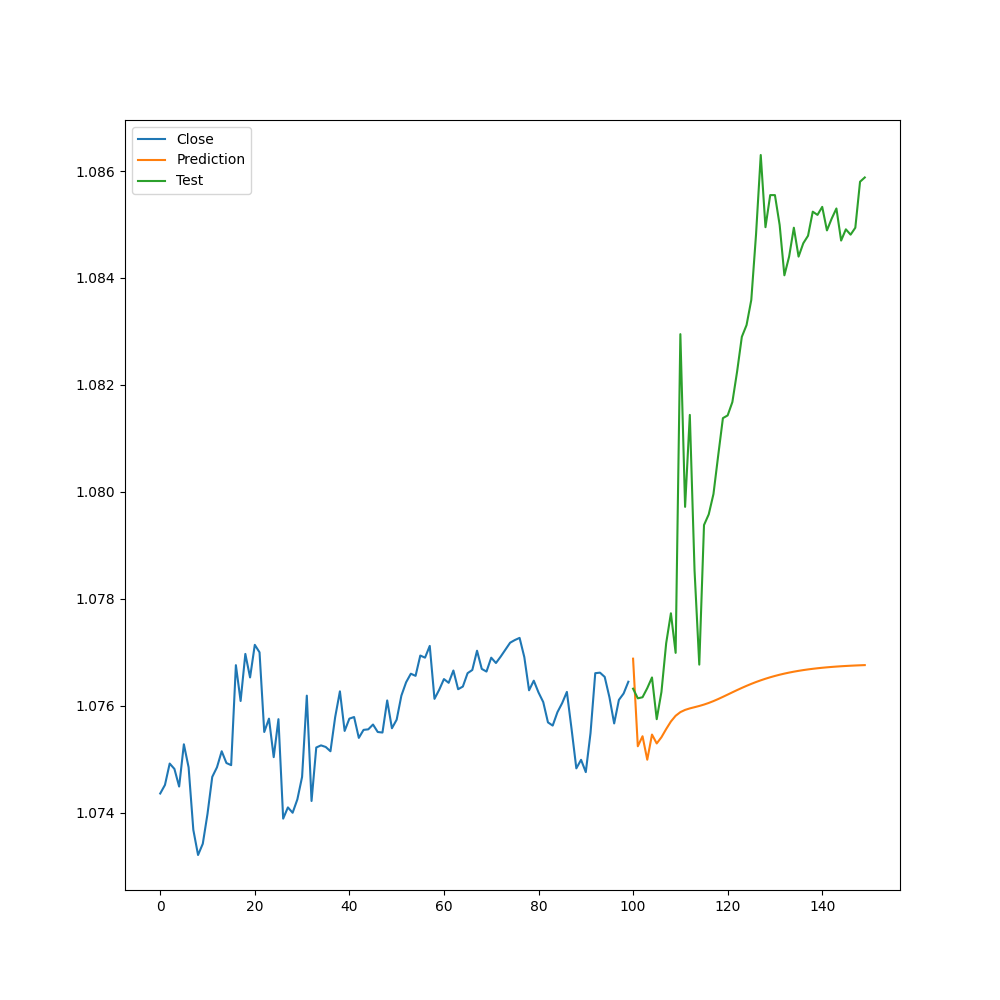
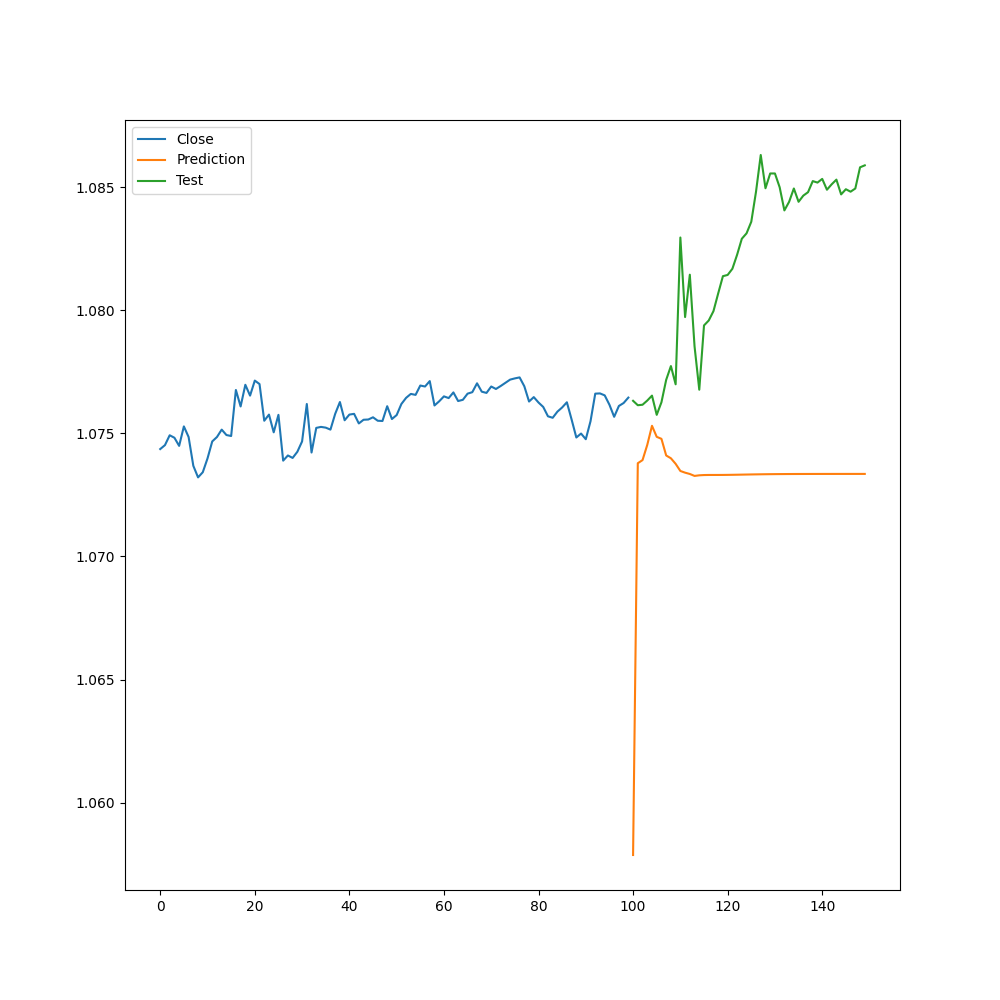
EDIT paths to be relative to main

diff --git a/src/polygonapi.py b/src/polygonapi.py
@@ -60,7 +60,7 @@ def plot_candles(df, pair_name):
                     high=df['High'],
                     low=df['Low'],
                     close=df['Close'])])
-    fig.write_image(f"pairs/chart/{pair_name}_chart.png", width=1920, height=1080, scale=1)
+    fig.write_image(f"../pairs/chart/{pair_name}_chart.png", width=1920, height=1080, scale=1)
 
 def plot_predictions(n_steps_in, n_steps_out, train, test, y_hat, pair_name):
     # Plot the last n_steps in of the close price and the prediction/test (x of prediction starts at the last n_steps_in)
@@ -72,7 +72,7 @@ def plot_predictions(n_steps_in, n_steps_out, train, test, y_hat, pair_name):
     # Plot test
     plt.plot(np.arange(n_steps_in, n_steps_in + n_steps_out), test[:n_steps_out], label='Test')
     plt.legend()
-    plt.savefig(f'predictions/{pair_name}_test.png')
+    plt.savefig(f'../predictions/{pair_name}_test.png')
     plt.cla()
 
 def plot_loss(loss, val_loss, pair_name):
@@ -82,7 +82,7 @@ def plot_loss(loss, val_loss, pair_name):
     plt.xlabel('Epoch')
     plt.ylabel('Error [Close]')
     plt.legend()
-    plt.savefig(f'train/{pair_name}_train.png', format='png')
+    plt.savefig(f'../train/{pair_name}_train.png', format='png')
     plt.cla()
 
 def get_data(pair):
@@ -104,7 +104,7 @@ def get_data(pair):
     data_3 = requests.get(url_3).json()
     if not 'results' in (data_1 and data_2 and data_3):
         print('Data from csv')
-        df = pd.read_csv(f'pairs/{pair}.csv')
+        df = pd.read_csv(f'../pairs/{pair}.csv')
     else:
         print('Data from api')
         df_1 = pd.DataFrame(data_1['results'])
@@ -120,7 +120,7 @@ def get_data(pair):
         # Add a row with the indexes from 0 to len(df)
         df['Index'] = np.arange(0, len(df))
         # Safe to csv
-        df.to_csv(f'pairs/{pair}.csv')
+        df.to_csv(f'../pairs/{pair}.csv')
     return df
 
 def on_balance_volume(close, volume):
@@ -294,7 +294,7 @@ def proceed(pair: str):
     opt = tf.keras.optimizers.Adam(learning_rate=0.001)
     model.compile(optimizer=opt, loss='mae')
     model.summary()
-    fit = model.fit(X, y, epochs=50, batch_size=32)
+    fit = model.fit(X, y, epochs=1, batch_size=32)
     # Plot loss
     plot_loss(fit.history['loss'], 0, pair)
     # Take n_steps_in from the last n_steps_in of the dataset
